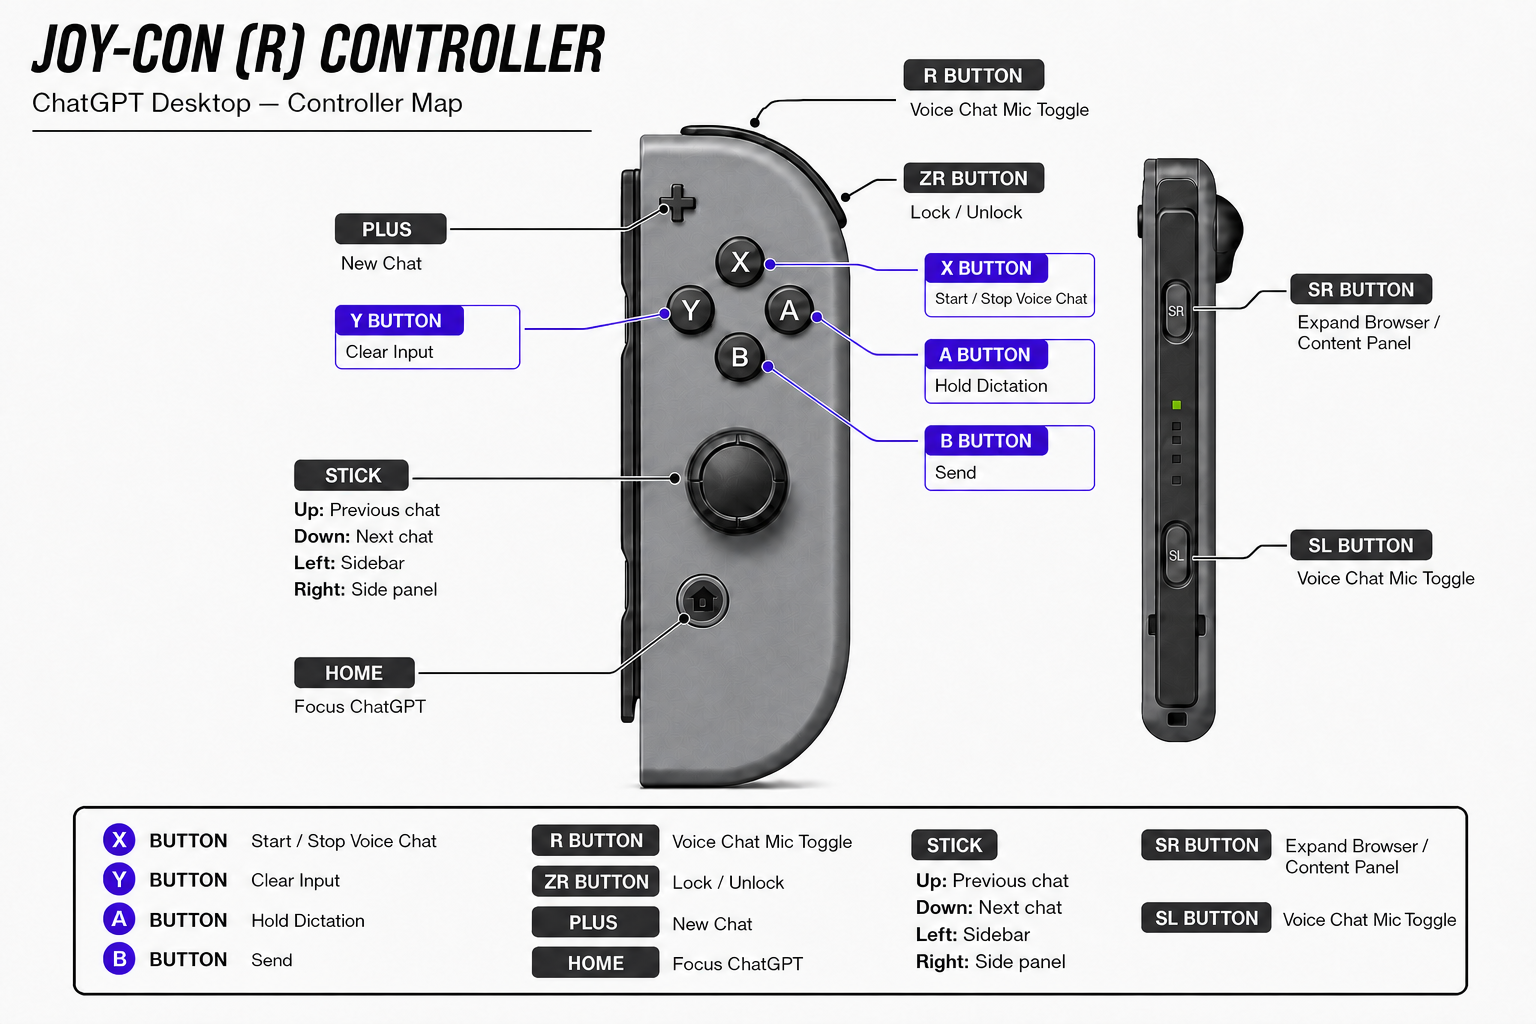
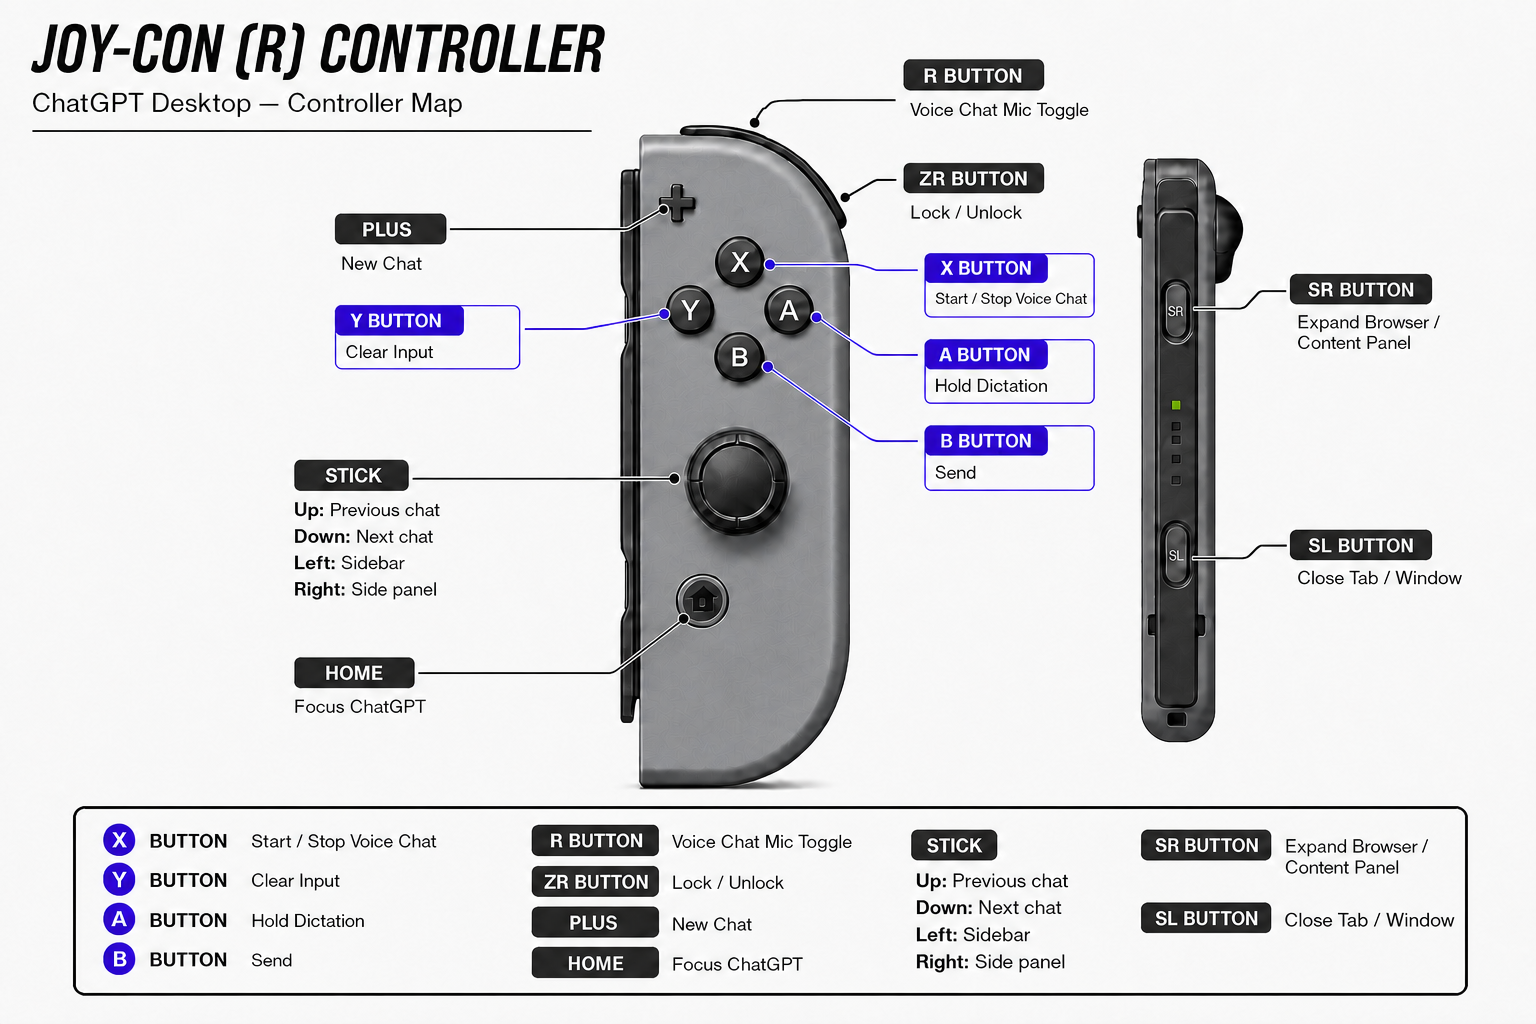
Map Joy-Con SL to close tab

diff --git a/SNESChatGPTMenuBar.swift b/SNESChatGPTMenuBar.swift
@@ -10,6 +10,7 @@ private let chatGPTBundleID = "com.openai.codex"
 private let chatGPTPath = "/Applications/ChatGPT.app"
 private let defaultPresetName = "ChatGPT Voice Macropad"
 private let controllerSelectionStorageKey = "controllerSelection"
+private let joyConSLCommandWMigrationKey = "migration.joyConSLCommandW"
 
 private enum Action: String, CaseIterable {
     case none
@@ -19,6 +20,7 @@ private enum Action: String, CaseIterable {
     case clearInput
     case toggleVoiceChat
     case toggleVoiceMic
+    case closeTabOrWindow
     case expandBrowserContentPanel
     case previousChat
     case nextChat
@@ -44,6 +46,8 @@ private enum Action: String, CaseIterable {
             return "Start/Stop Voice Chat"
         case .toggleVoiceMic:
             return "Voice Chat Mic Toggle"
+        case .closeTabOrWindow:
+            return "Close Tab / Window"
         case .expandBrowserContentPanel:
             return "Expand Browser/Content Panel"
         case .previousChat:
@@ -79,6 +83,8 @@ private enum Action: String, CaseIterable {
             return "\(displayName) (^⇧V)"
         case .toggleVoiceMic:
             return "\(displayName) (^⌥⌘M)"
+        case .closeTabOrWindow:
+            return "\(displayName) (⌘W)"
         case .expandBrowserContentPanel:
             return "\(displayName) (^⌘Z)"
         case .previousChat:
@@ -110,6 +116,7 @@ private enum Action: String, CaseIterable {
         .clearInput,
         .toggleVoiceChat,
         .toggleVoiceMic,
+        .closeTabOrWindow,
         .expandBrowserContentPanel,
         .previousChat,
         .nextChat,
@@ -364,6 +371,7 @@ private let joyConRightProfile = ControllerProfile(
         .dpadRight: "Stick Right"
     ],
     defaultActionOverrides: [
+        .l: .closeTabOrWindow,          // SL
         .r: .expandBrowserContentPanel, // SR
         .zl: .toggleVoiceMic,           // R
         .start: .newChat                // +
@@ -590,6 +598,7 @@ private final class ControllerMapper {
 
     private func loadSavedMappings() {
         mappingsByProductID.removeAll()
+        let needsJoyConSLMigration = !UserDefaults.standard.bool(forKey: joyConSLCommandWMigrationKey)
         for profile in controllerProfiles.values {
             var profileMappings = [Control: Action].defaultMappings(for: profile)
             for control in Control.allCases where control.isConfigurable {
@@ -603,9 +612,24 @@ private final class ControllerMapper {
                       control.choices.contains(action) else {
                     continue
                 }
+                if needsJoyConSLMigration,
+                   profile.productID == joyConRightProductID,
+                   control == .l,
+                   action == .toggleVoiceMic {
+                    let replacement = Action.closeTabOrWindow
+                    profileMappings[control] = replacement
+                    UserDefaults.standard.set(
+                        replacement.rawValue,
+                        forKey: control.storageKey(productID: profile.productID)
+                    )
+                    continue
+                }
                 profileMappings[control] = action
             }
             mappingsByProductID[profile.productID] = profileMappings
+        }
+        if needsJoyConSLMigration {
+            UserDefaults.standard.set(true, forKey: joyConSLCommandWMigrationKey)
         }
     }
 
@@ -772,6 +796,8 @@ private final class ControllerMapper {
             focusThenPost(KeyStroke(keyCode: 9, flags: [.maskControl, .maskShift]))
         case .toggleVoiceMic:
             focusThenPost(KeyStroke(keyCode: 46, flags: [.maskControl, .maskAlternate, .maskCommand]))
+        case .closeTabOrWindow:
+            focusThenPost(KeyStroke(keyCode: 13, flags: [.maskCommand]))
         case .expandBrowserContentPanel:
             focusThenPost(KeyStroke(keyCode: 6, flags: [.maskControl, .maskCommand]))
         case .previousChat:
@@ -983,7 +1009,7 @@ private final class AppDelegate: NSObject, NSApplicationDelegate, ControllerMapp
         submenu.addItem(disabledItem("Toggle Voice Chat Microphone: Control-Option-Command-M"))
         submenu.addItem(disabledItem("Browser/content side-panel expansion: Control-Command-Z"))
         submenu.addItem(.separator())
-        submenu.addItem(disabledItem("Joy-Con R / SL use the microphone shortcut"))
+        submenu.addItem(disabledItem("Joy-Con R uses the microphone shortcut"))
         submenu.addItem(disabledItem("Joy-Con SR uses the panel shortcut"))
         item.submenu = submenu
         return item

diff --git a/SNESChatGPTMapper.swift b/SNESChatGPTMapper.swift
@@ -19,6 +19,7 @@ private enum Action: String {
     case focusChatGPT = "focus ChatGPT"
     case toggleVoiceChat = "toggle Voice Chat"
     case toggleVoiceMic = "toggle Voice Chat microphone"
+    case closeTabOrWindow = "close current tab/window"
     case expandBrowserContentPanel = "expand browser/content panel"
     case dictation = "dictation"
     case send = "send"
@@ -85,7 +86,7 @@ private let joyConRightProfile = ControllerProfile(
         3: .send,            // B
         2: .toggleVoiceChat, // X
         4: .clearInput,      // Y
-        5: .toggleVoiceMic,  // SL
+        5: .closeTabOrWindow, // SL
         6: .expandBrowserContentPanel, // SR
         15: .toggleVoiceMic,            // R
         10: .newChat,                   // +
@@ -326,6 +327,8 @@ private final class Mapper {
             // Assign this in ChatGPT Keyboard Shortcuts to:
             // Toggle Voice Chat microphone = Control + Option + Command + M
             focusThenPost(KeyStroke(keyCode: 46, flags: [.maskControl, .maskAlternate, .maskCommand]))
+        case .closeTabOrWindow:
+            focusThenPost(KeyStroke(keyCode: 13, flags: [.maskCommand]))
         case .expandBrowserContentPanel:
             // Ryan's custom shortcut for expanding the browser/content panel.
             focusThenPost(KeyStroke(keyCode: 6, flags: [.maskControl, .maskCommand]))
@@ -480,7 +483,7 @@ private func printUsageAndExit() -> Never {
       B             -> Return
       X             -> Control + Shift + V
       Y             -> Command + A, Delete
-      SL            -> Control + Option + Command + M
+      SL            -> Command + W
       SR            -> Control + Command + Z
       R             -> Control + Option + Command + M
       ZR            -> lock/unlock mapper
@@ -491,7 +494,7 @@ private func printUsageAndExit() -> Never {
     Required ChatGPT shortcuts:
       Toggle Voice Chat Microphone        -> Control + Option + Command + M
       Browser/content side-panel expansion -> Control + Command + Z
-      Joy-Con R and SL require the microphone shortcut; SR requires the panel shortcut.
+      Joy-Con R requires the microphone shortcut; SR requires the panel shortcut.
 
     Default preset: \(defaultPresetName)
     """)

diff --git a/README.md b/README.md
@@ -41,7 +41,7 @@ The right Joy-Con has profile-specific defaults while leaving every SNES mapping
 | B | Send message (`Return`) |
 | X | Start or stop Voice Chat (`Control + Shift + V`) |
 | Y | Clear the current input (`Command + A`, then `Delete`) |
-| SL | Toggle Voice Chat microphone (`Control + Option + Command + M`) |
+| SL | Close the current tab or window (`Command + W`) |
 | SR | Expand the browser/content panel with Ryan's custom shortcut (`Control + Command + Z`) |
 | R | Toggle Voice Chat microphone (`Control + Option + Command + M`) |
 | ZR | Lock or unlock the mapper |
@@ -112,12 +112,12 @@ Check the installed app's current Accessibility status directly:
 
 ## Required ChatGPT Shortcuts
 
-Before using the Joy-Con microphone and SR actions, open ChatGPT Settings > Keyboard shortcuts and assign:
+Before using the Joy-Con R and SR actions, open ChatGPT Settings > Keyboard shortcuts and assign:
 
 - `Toggle Voice Chat Microphone` to `Control + Option + Command + M`
 - The browser/content side-panel expansion action to `Control + Command + Z` (Ryan's custom shortcut)
 
-These are prerequisites: Joy-Con R and SL use the microphone shortcut, and Joy-Con SR uses the browser/content side-panel shortcut.
+These are prerequisites: Joy-Con R uses the microphone shortcut, and Joy-Con SR uses the browser/content side-panel shortcut. Joy-Con SL sends the standard macOS `Command + W` shortcut and requires no ChatGPT shortcut setting.
 
 ## macOS Permissions
 
